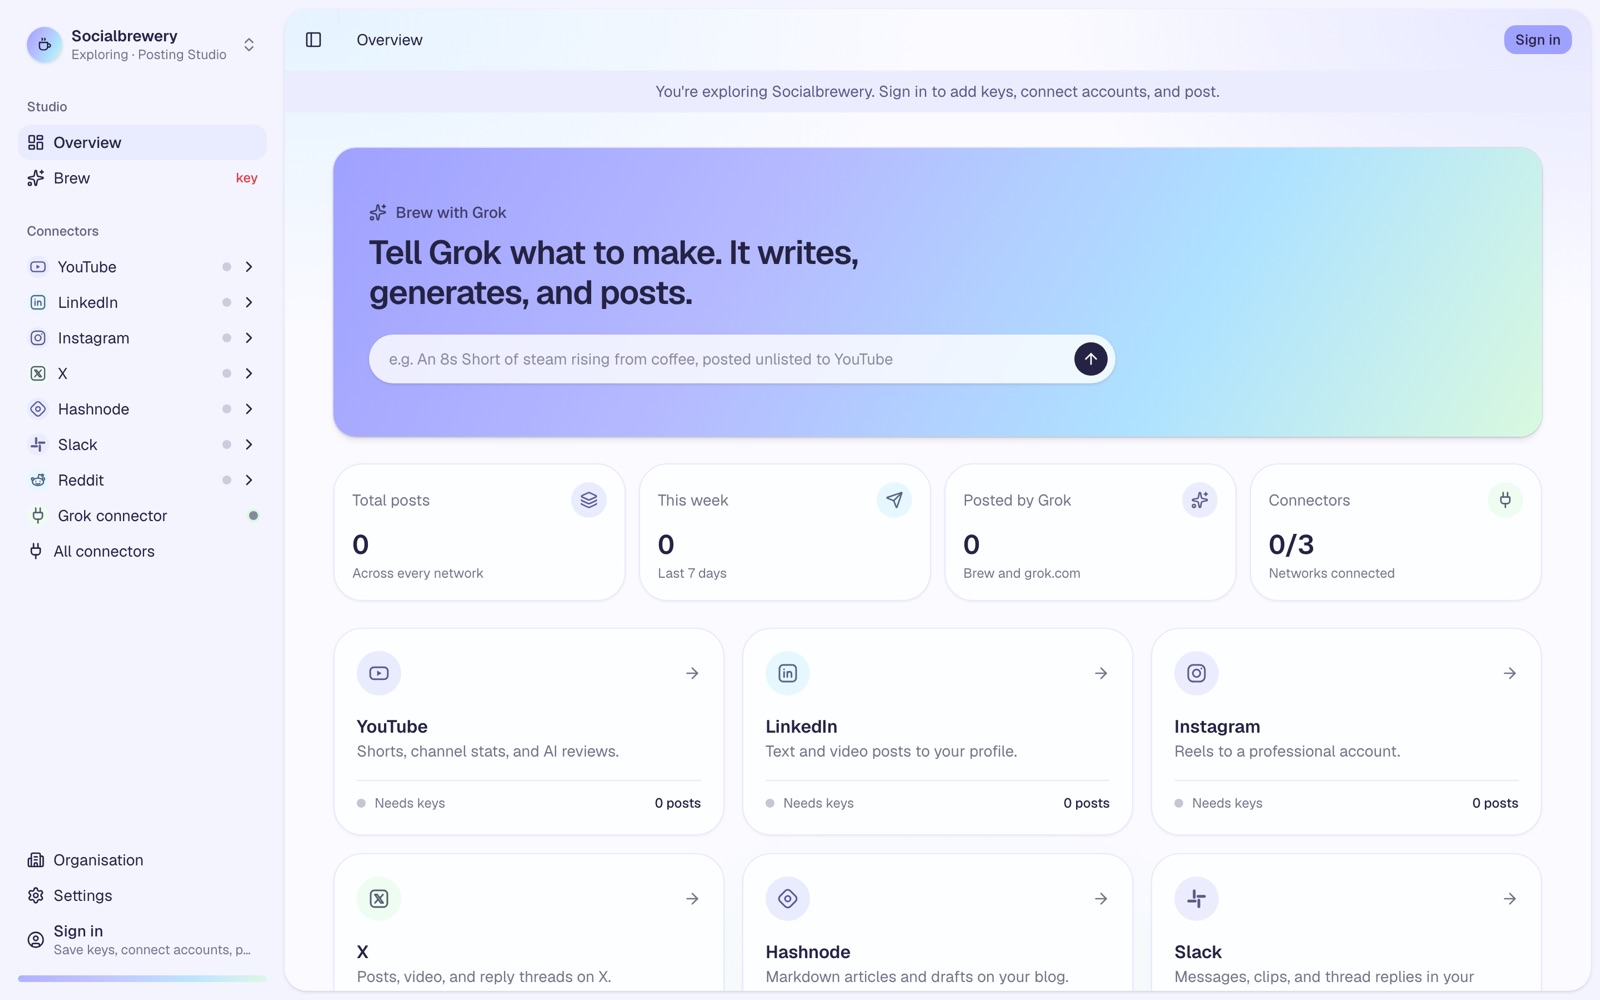
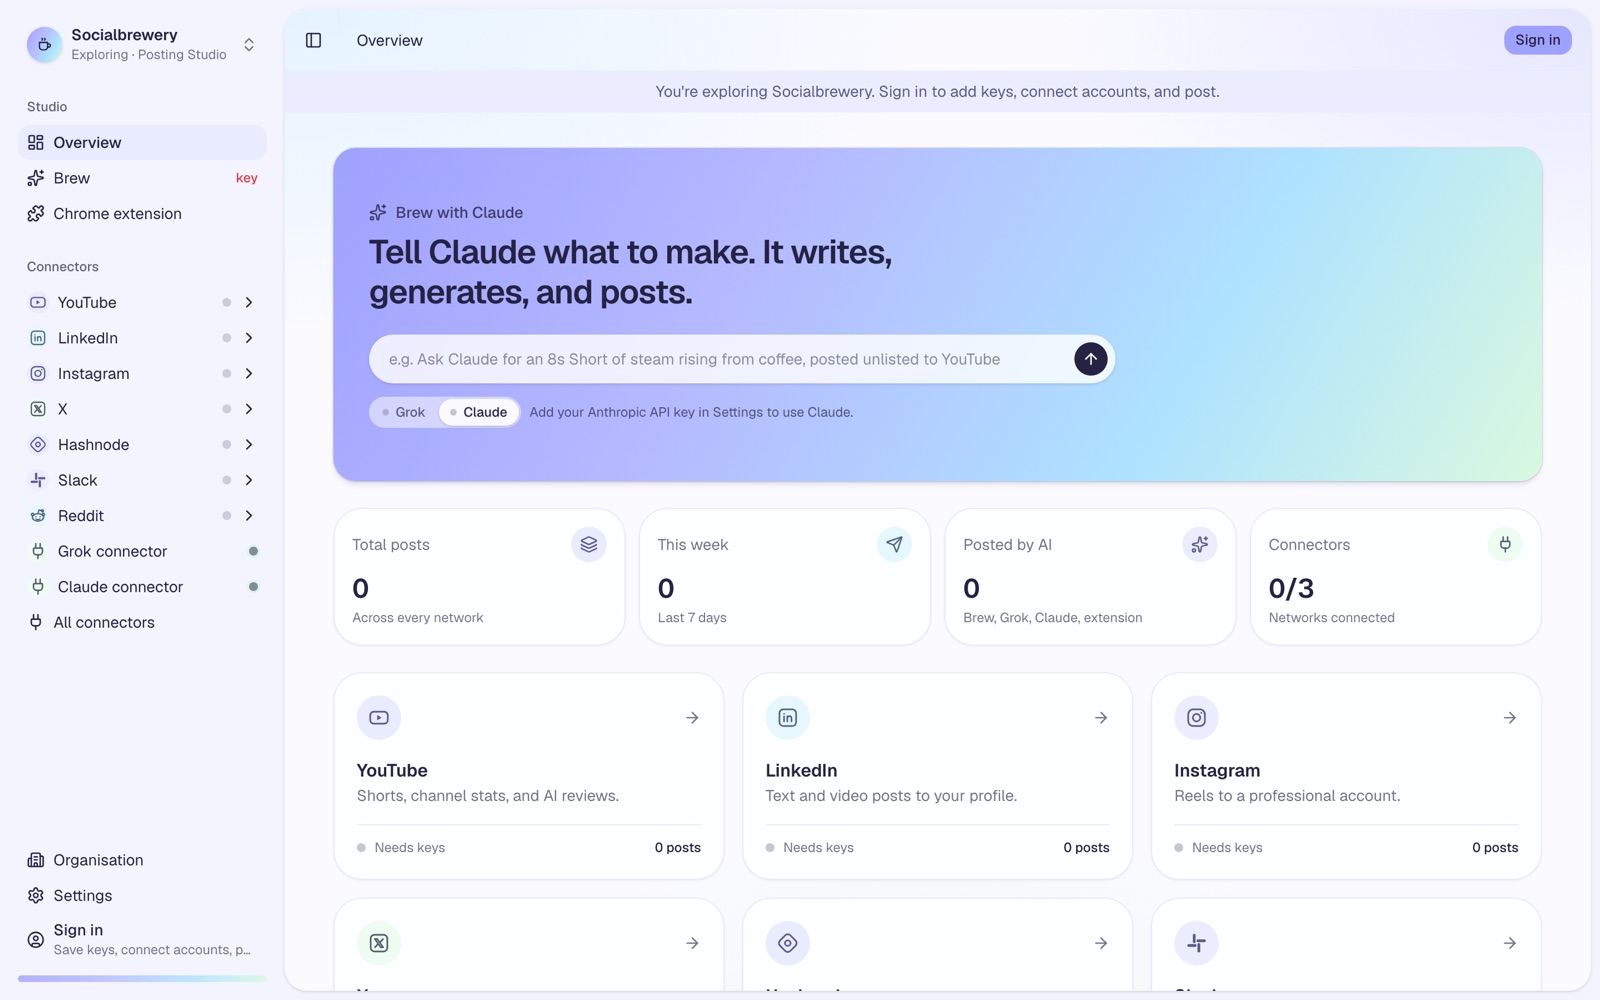
Update the SocialBrewery family card: new screenshot with Grok/Claude tabs

diff --git a/app/page.tsx b/app/page.tsx
@@ -75,7 +75,7 @@ const FAMILY = [
     name: "SocialBrewery",
     url: "https://socialbrewery.agarwal-aman041.workers.dev",
     img: "/landing/family-socialbrewery.jpg",
-    body: "Tell Grok what to make and it writes, generates and posts to YouTube Shorts, LinkedIn, Instagram, X, Hashnode, Slack and Reddit. ProductRoot uses it to publish your launch announcement, after you approve.",
+    body: "Tell Grok or Claude what to make and it writes, generates and posts to YouTube Shorts, LinkedIn, Instagram, X, Hashnode, Slack and Reddit. ProductRoot uses it to publish your launch announcement, after you approve.",
   },
 ];
 

diff --git a/README.md b/README.md
@@ -55,7 +55,7 @@ Also included:
 ## Part of a product family
 
 - **[MetaInfo](https://metainfo.agarwal-aman041.workers.dev):** see any page the way Google, Bing, ChatGPT, Perplexity, Claude and Gemini do.
-- **[SocialBrewery](https://socialbrewery.agarwal-aman041.workers.dev):** an AI posting studio for YouTube Shorts, LinkedIn, Instagram, X, Hashnode, Slack and Reddit.
+- **[SocialBrewery](https://socialbrewery.agarwal-aman041.workers.dev):** an AI posting studio (Grok or Claude) for YouTube Shorts, LinkedIn, Instagram, X, Hashnode, Slack and Reddit.
 - **ProductRoot** reuses both through their real APIs, and one sign-in works across all three.
 
 ---
